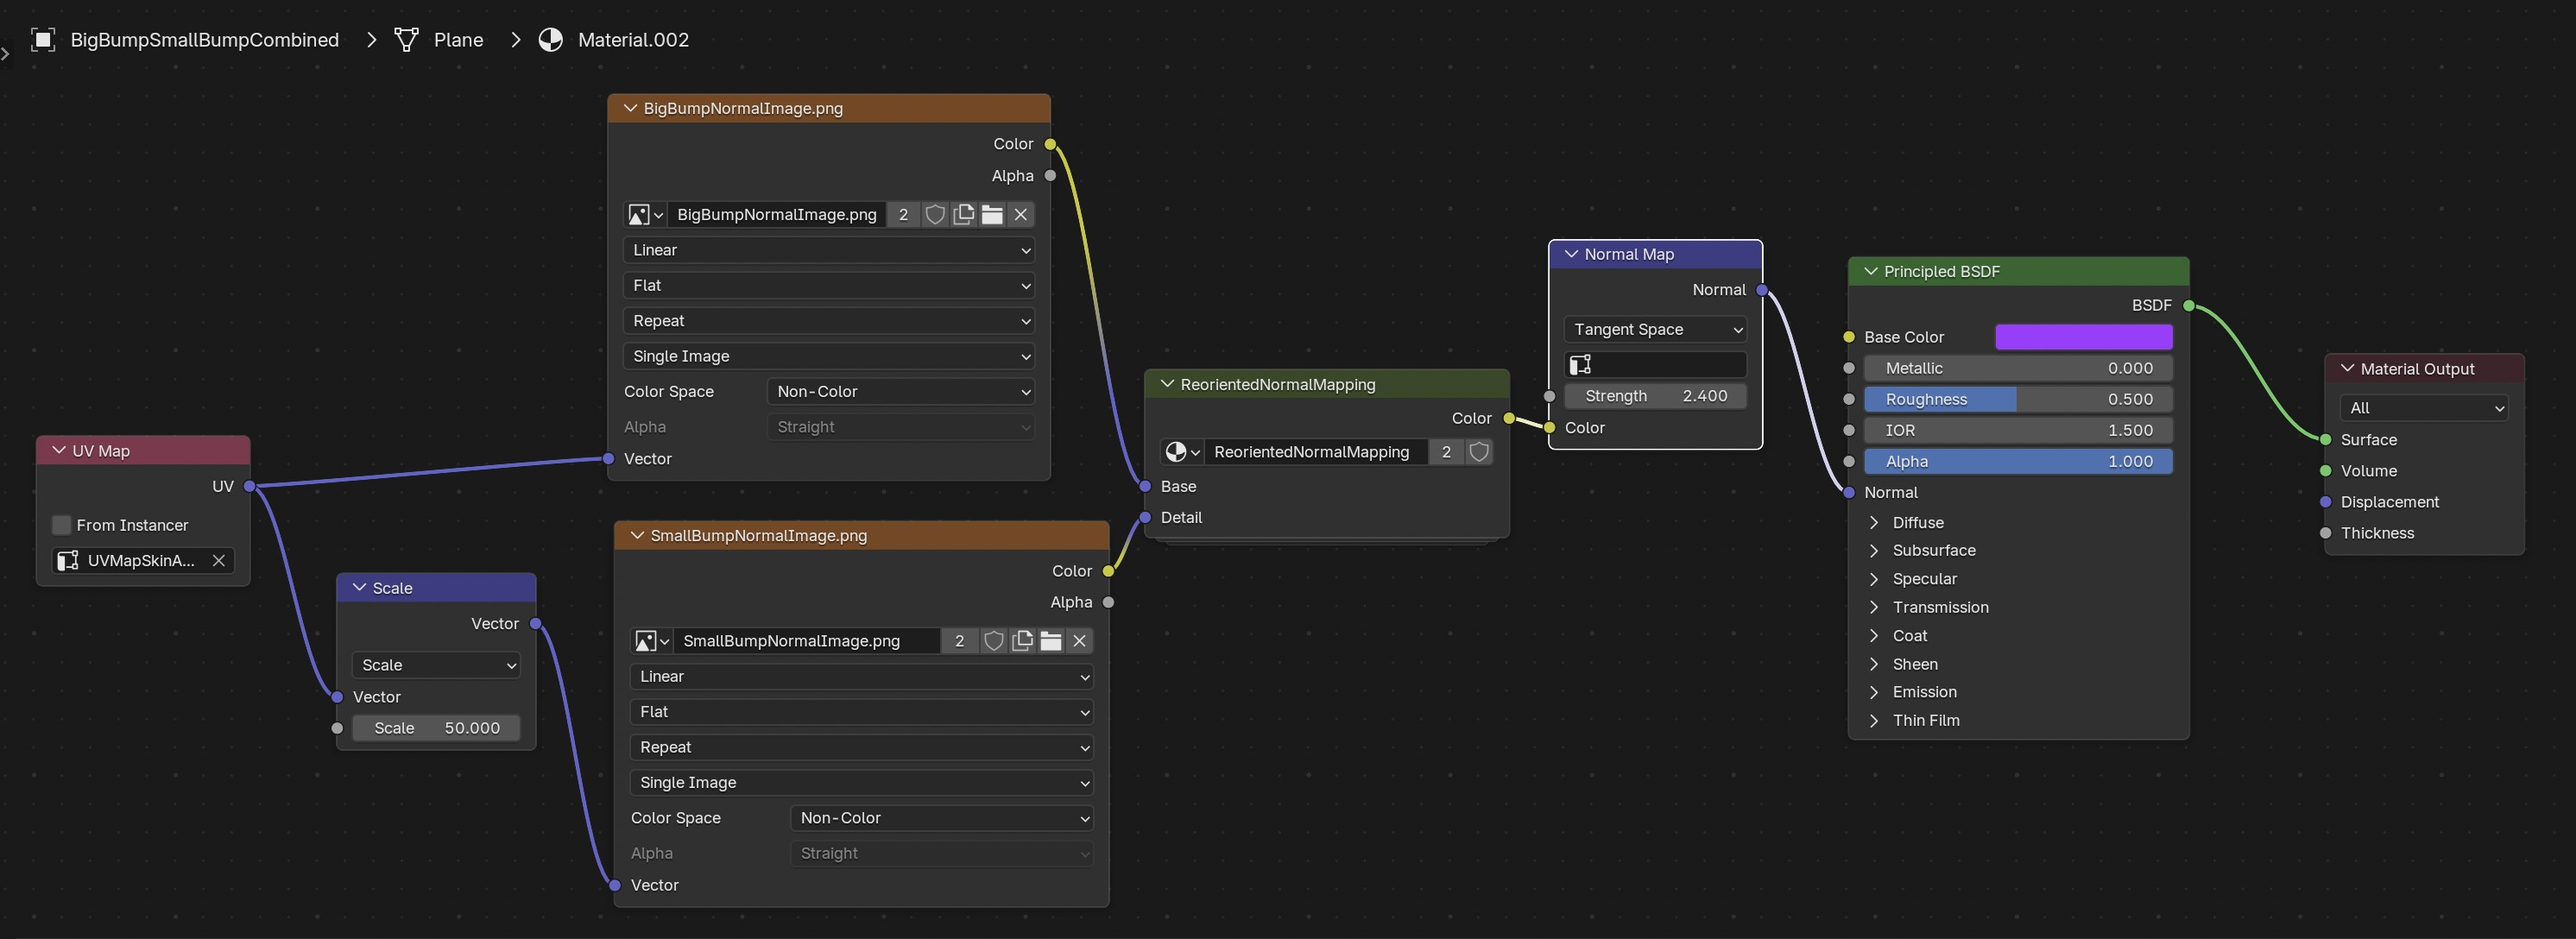
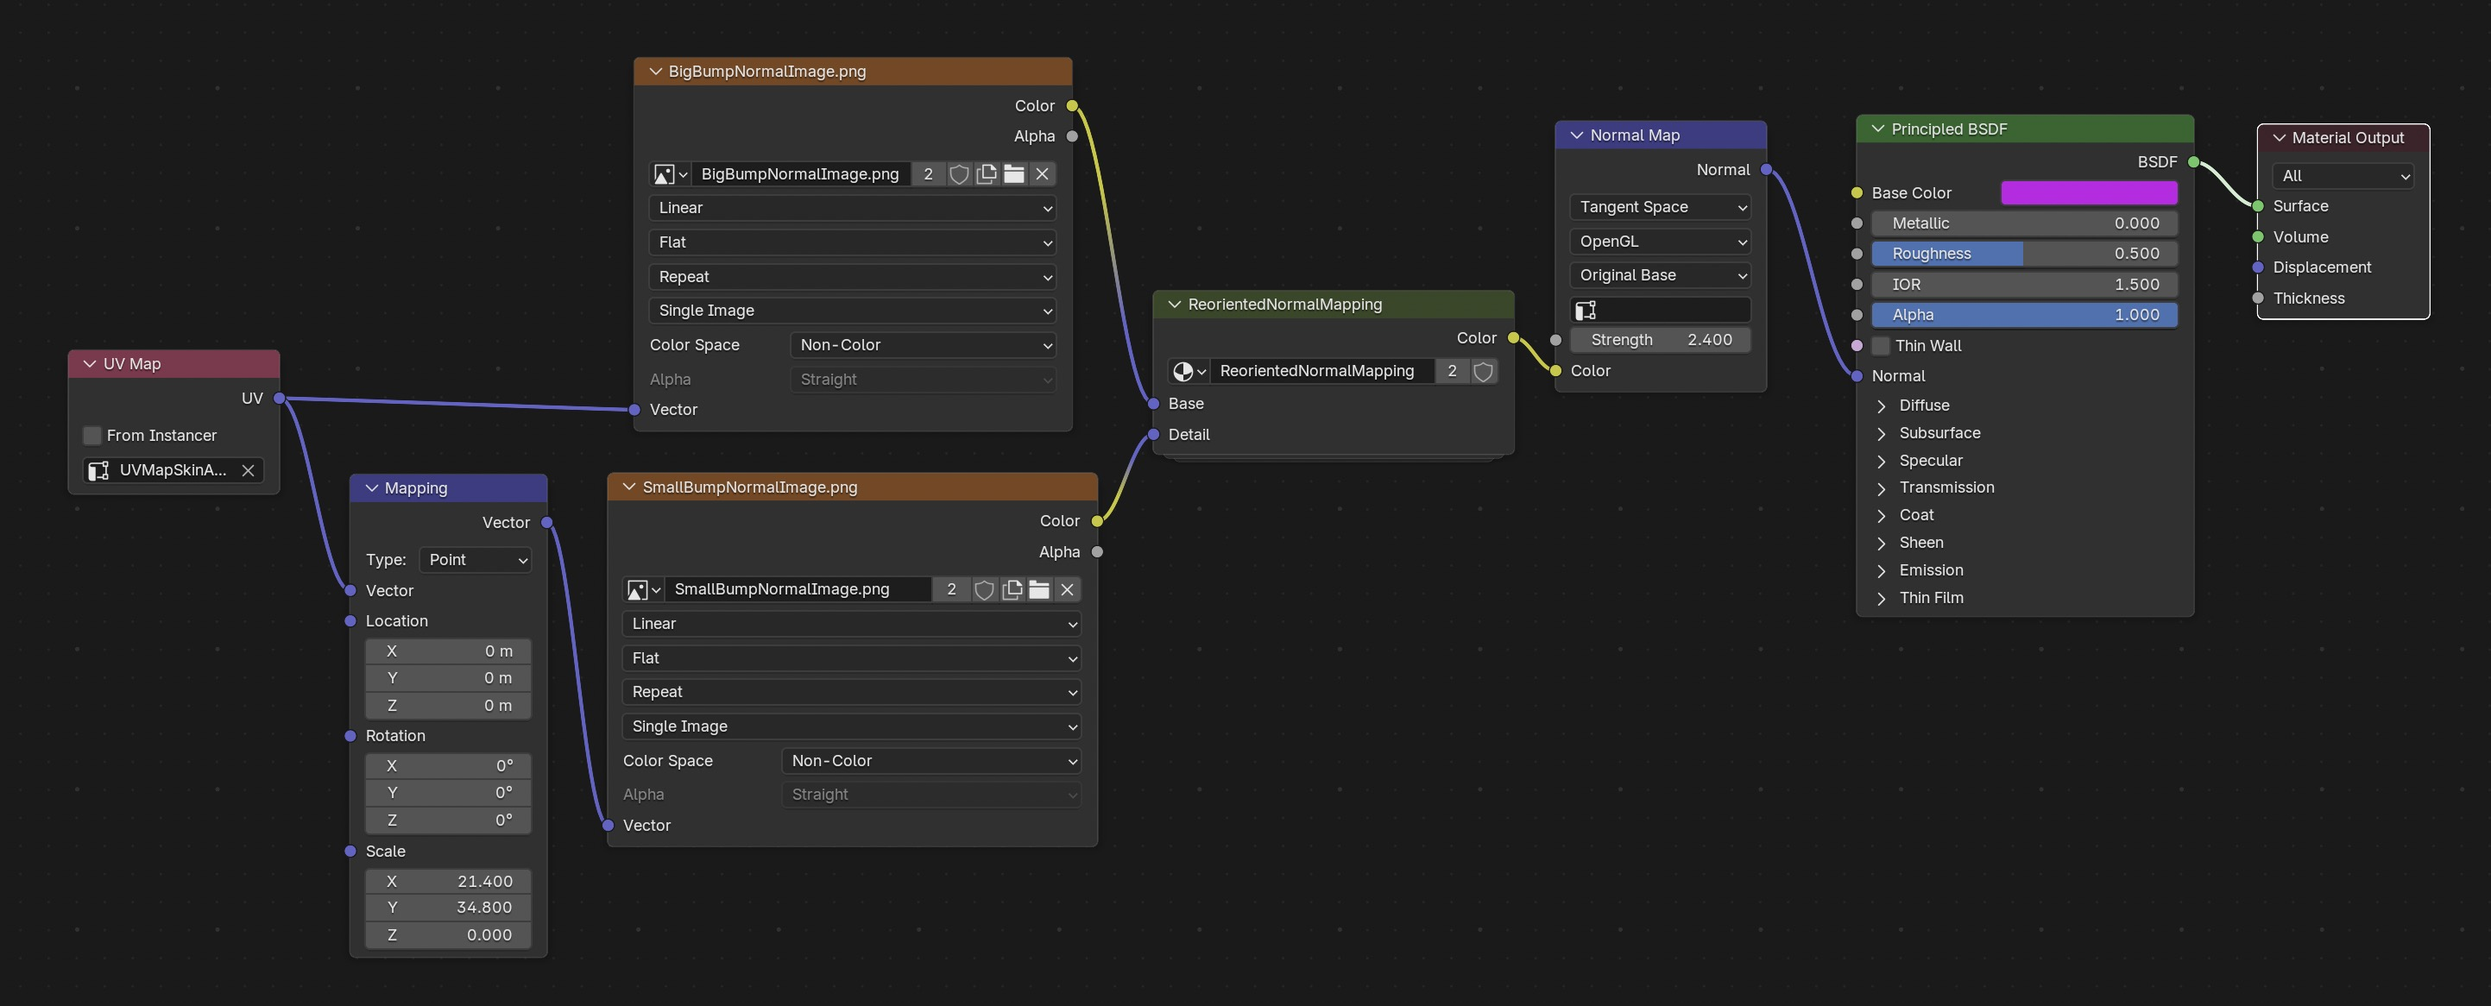
minor edit in Blender notes

diff --git a/Art/BlenderWorkedExamples.html b/Art/BlenderWorkedExamples.html
@@ -465,6 +465,8 @@
                     For speed, Eevee doesn't render transparent or reflective objects by default.
                     So the first thing is to enable ray tracing in Eevee.
                     <img class="centeredsmaller" alt="" src="Images/EnableEeveeRaytraceSettings.jpg">
+                    and you will probably need to increase the  <em class="hotkey">Thickness</em> a lot to get transparency such
+                    objects as eyes or glasses.
 
                     You need to tweak a lot of settings to get renders which are closer to Cycles, refer to 
                     <a href="https://www.youtube.com/watch?v=-gW6vk_OuNQ">How to user Eevee by Blender Guru</a>
@@ -2013,8 +2015,8 @@
                     
                     <img class="centeredsmaller" alt="X" src="Images/NormalMapExampleImageTiny.jpg">
 
-                    These are the nodes for the purple mesh.  We tile the small bump image repeatedly to create a larger image.  This detail is added onto
-                    the large bump.
+                    These are the nodes for the purple mesh.  We tile the small bump image repeatedly to create a larger image by scaling the
+                    texture mapping and by repeating the texture image.  This detail is added onto the large bump.
 
                     <img class="centered" alt="X" src="Images/PurpleMeshNodes.jpg">
 
@@ -4470,7 +4472,7 @@ Select the <em class="hotkey">density brush</em>,
                     Copyright &copy; 1986-2026 by Sean Erik O'Connor.
                     All Rights Reserved.
                     &nbsp;&nbsp;&nbsp;
-                    last updated 21 Jul 26.
+                    last updated 26 Jul 26.
                 </p>
             </footer>
         </div> <!-- wrapper -->
